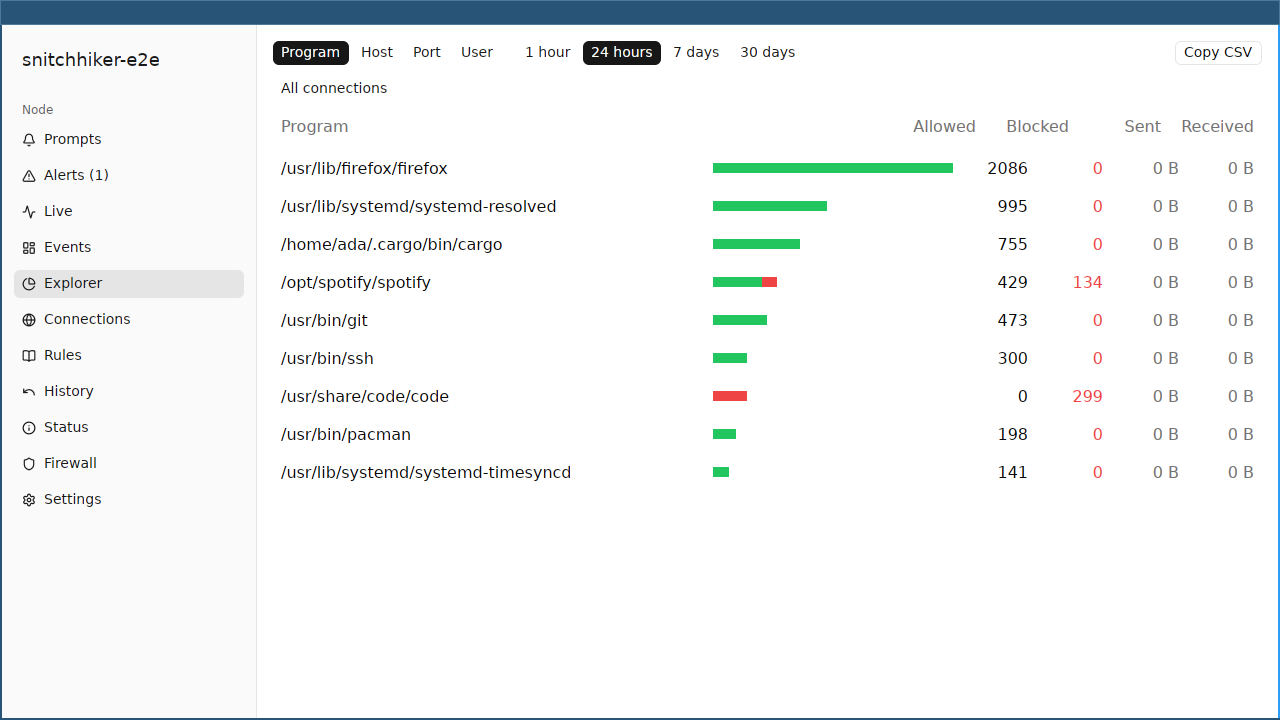
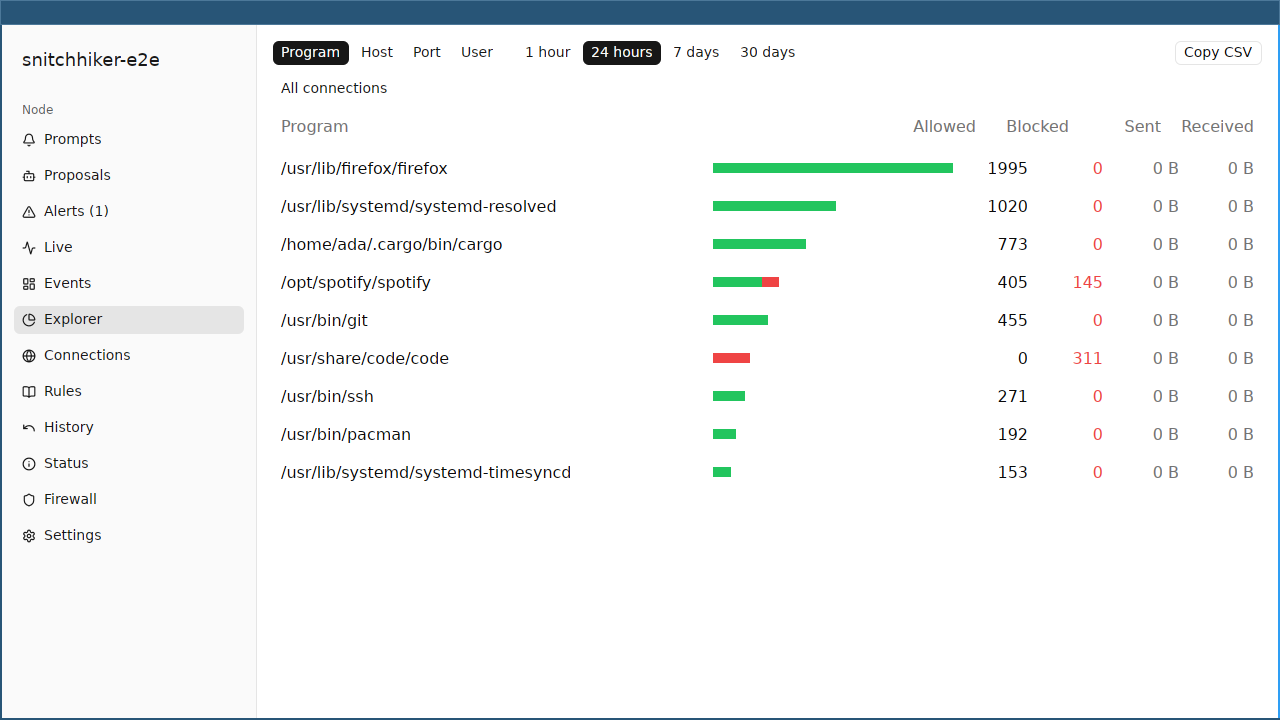
docs: agents and MCP
The Agents and MCP guide (registering with Claude Code, Codex and other clients, shaping, review, good and bad proposals), a generated reference of the MCP tools, the agent role in the protocol reference, decision 0009 (the MCP server without rmcp), the Proposals screenshot, and the plan's M4 checklist.

Claude-Session: https://claude.ai/code/session_01Wx31XDQ2mmh1TEejyx2oaC

diff --git a/crates/daemon/tests/docs.rs b/crates/daemon/tests/docs.rs
@@ -4,7 +4,8 @@
 
 #![allow(
     clippy::unwrap_used,
-    reason = "a test's helpers: failing loudly is the point"
+    clippy::indexing_slicing,
+    reason = "a test's helpers: failing loudly is the point (JSON indexing gives null, never panics)"
 )]
 
 use std::fmt::Write as _;
@@ -49,12 +50,81 @@ fn block_columns() -> String {
     text
 }
 
+/// The MCP server's tools: what agents are told, and what they send.
+fn mcp_tools() -> String {
+    let mut text = String::from(
+        "{/* Generated from tools() in crates/daemon/src/mcp.rs by crates/daemon/tests/docs.rs. */}\n",
+    );
+    for tool in snitchhiker_daemon::mcp::tools().as_array().unwrap() {
+        let name = tool["name"].as_str().unwrap();
+        let _ = write!(
+            text,
+            "\n### `{name}`\n\n{}\n\n",
+            tool["description"].as_str().unwrap()
+        );
+        let schema = &tool["inputSchema"];
+        let required: Vec<&str> = schema["required"]
+            .as_array()
+            .map_or_else(Vec::new, |r| r.iter().filter_map(|v| v.as_str()).collect());
+        let properties = schema["properties"].as_object().unwrap();
+        if properties.is_empty() {
+            text.push_str("No arguments.\n");
+            continue;
+        }
+        text.push_str("| Argument | Type | Required | Meaning |\n| --- | --- | --- | --- |\n");
+        // Sorted: map order depends on serde_json's features, which the workspace's other crates change.
+        let mut properties: Vec<_> = properties.iter().collect();
+        properties.sort_by_key(|(key, _)| key.as_str());
+        for (key, property) in properties {
+            let kind = match property["type"].as_str().unwrap_or("") {
+                "array" if property["items"]["type"] == "object" => {
+                    "list of rules (below)".to_owned()
+                }
+                "array" => format!(
+                    "list of {}s",
+                    property["items"]["type"].as_str().unwrap_or("value")
+                ),
+                other => other.to_owned(),
+            };
+            let _ = writeln!(
+                text,
+                "| `{key}` | {kind} | {} | {} |",
+                if required.contains(&key.as_str()) {
+                    "yes"
+                } else {
+                    "no"
+                },
+                property["description"]
+                    .as_str()
+                    .unwrap_or("")
+                    .replace('|', "\\|")
+            );
+            if let Some(rule) = property["items"]["properties"].as_object() {
+                text.push_str("\nEach rule:\n\n| Field | Type | Meaning |\n| --- | --- | --- |\n");
+                let mut rule: Vec<_> = rule.iter().collect();
+                rule.sort_by_key(|(field, _)| field.as_str());
+                for (field, p) in rule {
+                    let _ = writeln!(
+                        text,
+                        "| `{field}` | {} | {} |",
+                        p["type"].as_str().unwrap_or(""),
+                        p["description"].as_str().unwrap_or("").replace('|', "\\|")
+                    );
+                }
+                text.push('\n');
+            }
+        }
+    }
+    text
+}
+
 fn generated() -> Vec<(&'static str, String)> {
     vec![
         ("cli-help.txt", HELP.to_owned()),
         ("daemon-help.txt", DAEMON_HELP.to_owned()),
         ("aliases.mdx", aliases()),
         ("block-columns.mdx", block_columns()),
+        ("mcp-tools.mdx", mcp_tools()),
         (
             "config-defaults.toml",
             format!(

diff --git a/docs/plan.md b/docs/plan.md
@@ -713,7 +713,7 @@ Today they can only trip a prompt that says "node → 104.16.x.x:443" with no co
 **Transport.**
 
 - `snitchhiker mcp` speaks MCP over stdio. It is part of the CLI binary, so there is nothing extra to install:
-  `claude mcp add snitchhiker -- snitchhiker mcp`. Built on `rmcp`, the official Rust MCP SDK.
+  `claude mcp add snitchhiker -- snitchhiker mcp`. Written by hand on `serde_json` (decision 0009).
 - The MCP process runs as the user, unprivileged. It connects to `/run/snitchhiker/agent.sock`, which any local
   process may open. That is safe only because the socket's API is the powerless **Propose** tier
   ([§4.3](#43-step-up-authorization-for-dangerous-actions)).
@@ -1476,7 +1476,7 @@ projects.
 | --- | --- |
 | Protocol messages | The `.proto` files and their comments: every message, field, method and subscription topic, with types, the version that introduced it, and examples |
 | Protocol vectors | `proto/vectors/`: every example rendered as hex with its decoded meaning |
-| MCP tools | The tool definitions registered with `rmcp`: names, descriptions, input and output JSON schemas, example calls |
+| MCP tools | The tool definitions of `snitchhiker mcp`: names, descriptions, input JSON schemas, example calls |
 | Command line | The CLI's argument definitions: every subcommand and option, with defaults |
 | Configuration | The documented `daemon.toml` and relay config structs: every key, type, default and the `x_file` alternatives for secrets; `dist/daemon.toml` is generated from the same source |
 | Rule matchers and query keys | The `core` crate's matcher and query-key tables |
@@ -2098,28 +2098,33 @@ tables removed by other tools, queue overflows, lost history, dangerous actions)
 
 Early because the user's own coding agents benefit immediately. It needs the prompt broker (M2) and a review UI (M3).
 
-- [ ] **Agent socket and Propose tier**
-  - [ ] `agent.sock`, the tier's API, caller provenance by pidfd (ancestry, cwd, session), agent allow-list.
-  - [ ] Process-tree scoping for `recent_blocked` and `annotate_pending`.
-- [ ] **`process.session` matcher**
-  - [ ] Pidfd-held ancestor matching; rules removed when the process exits; survives daemon restart only as
-        "expired".
+- [x] **Agent socket and Propose tier** ([decision 0008](decisions/0008-agent-proposals.md))
+  - [x] `agent.sock`, the tier's API, caller provenance by pidfd (ancestry, cwd, session), agent allow-list
+        (`agent_programs`).
+  - [x] Process-tree scoping for `recent_blocked` and `annotate_pending` (the lineage of connections not allowed,
+        kept in memory for an hour).
+- [x] **`process.session` matcher**
+  - [x] Pidfd-held ancestor matching (pid and start time); rules removed when the process exits (the daemon waits on
+        pidfds); after a daemon restart, rules of agents gone are removed at start.
 - [ ] **Proposal engine**
-  - [ ] Validation and shaping: grounding in observed events, over-breadth checks (Public Suffix List, ranges,
-        sensitive aliases), defaults (session scope, expiry, folder), dedupe, merge, rate limits.
-  - [ ] Proposal lifecycle and storage; approval with edits; reasons returned to the agent.
-  - [ ] Envelopes (dangerous tier to configure), auto-approval with audit log.
-- [ ] **`snitchhiker mcp`**
-  - [ ] stdio MCP server with `rmcp`: `get_status`, `check_connection`, `recent_blocked`, `propose_rules`,
-        `get_proposal`, `wait_for_proposal`, `withdraw_proposal`, `annotate_pending`.
-  - [ ] Tool descriptions written so agents propose narrow rules (examples of good and bad proposals).
-  - [ ] Docs: registering with Claude Code and other MCP clients.
+  - [x] Validation and shaping: grounding in observed events (the program the kernel saw), over-breadth checks
+        (Public Suffix List, ranges, sensitive aliases), defaults (session scope, folder), dedupe, rate limits.
+  - [x] Proposal lifecycle and storage; approval with edits; reasons returned to the agent; expiry with the agent.
+  - [ ] Envelopes (dangerous tier to configure), auto-approval with audit log (moved to M8: off by default, and
+        decision 0008 leaves it for later).
+- [x] **`snitchhiker mcp`**
+  - [x] stdio MCP server (by hand, decision 0009): `get_status`, `check_connection`, `recent_blocked`,
+        `propose_rules`, `get_proposal`, `wait_for_proposal`, `withdraw_proposal`, `annotate_pending`.
+  - [x] Tool descriptions written so agents propose narrow rules (examples of good and bad proposals).
+  - [x] Docs: registering with Claude Code and other MCP clients.
 - [ ] **Desktop review UI**
-  - [ ] Proposal prompts with provenance, untrusted-text styling, diff, risk badges, evidence, edit and approve.
-  - [ ] Agents folder view; proposal history; envelopes editor; mute per process tree.
-- [ ] **Docs:** the generated MCP tools reference; the "Agents and MCP" guide with registration for Claude Code and
+  - [x] Proposal prompts with provenance, untrusted-text styling, risk badges, evidence, edit and approve; agents'
+        notes on prompts; notifications.
+  - [x] Proposal history. [ ] Mute per process tree; envelopes editor (with envelopes, M8).
+- [x] **Docs:** the generated MCP tools reference; the "Agents and MCP" guide with registration for Claude Code and
       other clients, and examples of good and rejected proposals.
-- [ ] **Tests:** the MCP and Propose-tier tests in [§12](#12-testing).
+- [x] **Tests:** an agent in the VM sees only its own refused connections, proposes, is approved (command line and
+      desktop app), connects, and its rules go when it exits.
 - **DoD:** Claude Code, blocked while running `cargo build` in a project, calls `recent_blocked`, proposes
   session-scoped allows for `crates.io` and `static.crates.io` for `cargo`, the user approves in the desktop app, and the
   build succeeds. A proposal for `node → *` is flagged and cannot be approved without step-up.
@@ -2230,6 +2235,9 @@ Early because the user's own coding agents benefit immediately. It needs the pro
   - [ ] User alert rules (query + threshold + window), deliveries (clients, push, webhook, journal), acknowledge sync.
 - [ ] **Rule hygiene**
   - [ ] "Binary moved" detection with one-click generalisation, never-hit rules, merge suggestions.
+- [ ] **Agent envelopes and muting** (from M4)
+  - [ ] Pre-authorized envelopes (a dangerous action to configure), auto-approval inside them with an audit log, their
+        editor; muting proposals of a process tree.
 - [ ] **Blocklists from URLs**
   - [ ] Refresh schedule, integrity (size limits, format checks), stats per list.
 - [ ] **Performance pass**
@@ -2373,7 +2381,7 @@ policy is drop.
 | Mobile bindings | uniffi, cargo-ndk | 0.32.2 / 4.1.2 | Mozilla-proven; async → suspend. |
 | Desktop UI | gpui-ce, or gpui-pre + gpui-component | 0.3.0 / 0.9.1 | Decided in M0. |
 | Terminal QR | qrcode (Dense1x2 renderer) | 0.14.1 | `fast_qr` is an alternative. |
-| MCP server | rmcp (official Rust MCP SDK) | latest at M4 | stdio transport inside the CLI binary. |
+| MCP server | none: JSON-RPC on `serde_json` (decision 0009) | n/a | stdio transport inside the CLI binary. |
 | Container metadata | Docker Engine API (portcullis's client), Podman on-disk state, systemd-machined (zbus) | n/a | CRI later. |
 | Android QR | CameraX + ML Kit barcode (bundled) / ZXing core (foss) | 1.7 / 17.3.0 / 3.5.4 | |
 | Android push | FCM / UnifiedPush connector | n/a / 3.3.5 | |

diff --git a/site/src/content/docs/guides/agents.md b/site/src/content/docs/guides/agents.md
@@ -1,0 +1,106 @@
+---
+title: Agents and MCP
+description: Coding agents propose the rules they need, with a reason, and you approve them; the rules last as long as the agent's session.
+sidebar:
+  order: 4
+---
+
+A coding agent (Claude Code, Codex and the like) runs commands that need the network now and then: a package registry, an API, a forge. Without help, all you see is a prompt for `node → 104.16.x.x:443` in the middle of something else. Snitchhiker lets the agent ask instead: through its MCP server the agent sees which of *its own* connections were refused, and **proposes** the narrow rules it needs, with a reason. You approve or deny in the desktop app; the agent is told, and goes on.
+
+An agent can't change anything itself. Every proposal waits for a person.
+
+![The Proposals page: who proposed, the agent's words, the rule with what it was refused](../../../assets/screenshots/proposals-light.png)
+
+## Registering the MCP server
+
+The MCP server is part of the command line: `snitchhiker mcp`, run as you, by the agent. Register it with the agent so it starts it directly.
+
+For Claude Code:
+
+```sh
+claude mcp add --scope user snitchhiker -- snitchhiker mcp
+```
+
+For Codex, in `~/.codex/config.toml`:
+
+```toml
+[mcp_servers.snitchhiker]
+command = "snitchhiker"
+args = ["mcp"]
+```
+
+For other clients that read the common JSON form:
+
+```json
+{ "mcpServers": { "snitchhiker": { "command": "snitchhiker", "args": ["mcp"] } } }
+```
+
+The node takes the process that started the MCP server to be **the agent**, and everything that process starts (the commands it runs, their children) to be its processes. So the agent must start `snitchhiker mcp` itself: through a shell script or a launcher, the launcher would be "the agent", and the agent's other commands not its processes.
+
+The server speaks to the node's agent socket, `/run/snitchhiker/agent.sock`, which any local process may open. That is safe because of what the agent role can do: look, and propose. To accept proposals only from known agent programs, list them in [`agent_programs`](/reference/configuration/#agent_programs).
+
+## What the agent can do
+
+The [tools](/reference/mcp/) map onto the agent role's requests:
+
+- **`recent_blocked`**: the connections of the agent's own processes that were refused, or are waiting for a prompt, over the last hour. Nothing else of the history: an agent never sees what the rest of the machine does.
+- **`check_connection`**: how a connection would be decided now, and by which rule.
+- **`propose_rules`**: rules to allow, and why.
+- **`wait_for_proposal`**, **`get_proposal`**, **`withdraw_proposal`**: follow a proposal until you answer it.
+- **`annotate_pending`**: add a note to a prompt its own process caused ("this is `npm install` fetching the project's dependencies"), shown with the prompt.
+
+## What the node does with a proposal
+
+The agent only suggests. Each proposed rule is **shaped** by the node before you see it:
+
+- **The program is the one the kernel saw.** If the agent's processes were refused connections to those destinations, the rule names the program that made them, whatever the agent wrote (a symlink like `/usr/bin/python3`, or a launcher like `~/.cargo/bin/cargo`, becomes the real binary). Only when several programs were refused there does the agent's word pick one of them.
+- **Broad rules are marked**: any destination, a wildcard on a public suffix (`*.com`, `*.co.uk`), any port with a broad destination, networks wider than a /24, the LAN and the cloud metadata service, binaries a user can replace, and rules nothing the agent tried matches (a guess). A rule for any program to anywhere is refused outright.
+- **Evidence**: each rule lists the refused connections it would let through.
+- **Already allowed**: a rule whose connections today's rules allow already is shown as such and not made.
+
+Proposals have limits: 16 rules each, a reason of at most 2000 characters, 10 waiting per agent. The same rules proposed again return the proposal already waiting.
+
+## Reviewing
+
+Proposals come as a desktop notification and on the **Proposals** page. Each shows:
+
+- **who proposed**, as the kernel says: the agent's program, its working directory (the project), the user, and what started it;
+- **the agent's words**, set apart and labelled as not verified: it is text the agent wrote, and a prompt-injected agent can write anything;
+- **the rules** as shaped, each with its marks and evidence. You can drop a rule, or narrow its hosts and ports, before approving.
+
+Then choose how long, and **Approve** or **Deny**, with a reason if you like: the agent is told it.
+
+- **While the agent runs** (the default): the rules match only the agent's processes, and are removed when the agent exits. Another program of yours doesn't get them, nor does the next session of the agent.
+- **1 hour**, **12 hours**, **Forever**: the rules apply to the program wherever it runs, until they expire.
+
+Approving a marked rule asks for your password, as other [dangerous actions](/internals/security/#dangerous-actions-need-more-than-a-session) do. Approved rules go in the folder `Agents/<agent>/<project>`, as one change of the [history](/guides/rules/#history-and-undo), undone like any other.
+
+A proposal still waiting when its agent exits expires.
+
+From the command line, `snitchhiker proposals` lists those waiting, `snitchhiker proposals show <id>` shows one, and `snitchhiker proposals approve <id>` or `deny <id>` answers it ([reference](/reference/cli/)).
+
+## Good and bad proposals
+
+`cargo build` refused on its way to the registry, and the agent proposes:
+
+```json
+{ "justification": "cargo build needs the crates of Cargo.lock.",
+  "rules": [{ "exe": "/home/ada/.cargo/bin/cargo", "hosts": ["index.crates.io", "static.crates.io"], "ports": ["443"] }] }
+```
+
+It is shaped to the toolchain's `cargo` binary the kernel saw, unmarked, with the two refused connections as evidence: approve it, and the build goes on.
+
+These come marked, or not at all:
+
+| Proposed | What happens |
+| --- | --- |
+| `{"hosts": ["*"]}` with no program | refused: any program, anywhere |
+| `{"exe": "/usr/bin/node", "hosts": ["*.com"]}` | marked: every site under a public suffix, any port |
+| `{"exe": "/usr/bin/curl", "hosts": ["10.0.0.0/8"], "ports": ["443"]}` | marked: a wide network, and the LAN |
+| `{"exe": "/usr/bin/python3", "hosts": ["169.254.169.254"]}` | marked: the cloud metadata service |
+| `{"exe": "/usr/bin/wget", "hosts": ["example.org"], "ports": ["443"]}` with nothing refused | marked: a guess |
+
+## What this doesn't protect against
+
+- Any of your programs can open the agent socket and propose: it gains nothing a prompt wouldn't, since you approve. Its provenance shows what it is.
+- An agent fooled by what it read can propose something harmful with a convincing reason. The shaping, the marks, the evidence and the session scope limit what a careless approval costs; reading what you approve is still on you.

diff --git a/docs/decisions/0009-mcp-by-hand.md b/docs/decisions/0009-mcp-by-hand.md
@@ -1,0 +1,30 @@
+# 0009. The MCP server is written by hand, not with rmcp
+
+Status: accepted (M4)
+
+## Context
+
+The plan named `rmcp`, the official Rust MCP SDK, for `snitchhiker mcp`. The server it needs is small: MCP over stdio
+is JSON-RPC 2.0, one message a line, and the server answers four methods (`initialize`, `ping`, `tools/list`,
+`tools/call`) for eight tools that each map onto one request of the agent socket. It has no resources, prompts,
+sampling or HTTP transport.
+
+`rmcp` is built on tokio, with schemars and proc macros for the tool definitions. Nothing else in the daemon's binary
+uses tokio: the daemon and the command line are threads and blocking sockets. The command line is the daemon's binary
+(one package, one file), so the SDK would add an async runtime and its build time to the root daemon for the sake of
+a stdio loop.
+
+## Decision
+
+`snitchhiker mcp` (`crates/daemon/src/mcp.rs`) implements the stdio transport and the four methods directly on
+`serde_json`, already a dependency. Tool schemas are written as JSON next to the tools. It answers with the protocol
+version the client asks for when it knows it (2024-11-05 to 2025-11-25), and its newest otherwise.
+
+## Consequences
+
+- No new dependencies; the binary and its build stay as they were.
+- Following MCP is our job: a new protocol version that changes the methods used here needs a change here. The
+  methods used have been stable across every version so far, and a client that asks for an unknown version gets one
+  this server speaks, as the specification allows.
+- Should the server grow (resources, an HTTP transport, notifications of changed proposals), moving to `rmcp` can be
+  reconsidered; the tools' behaviour lives in the node, not in the server.
